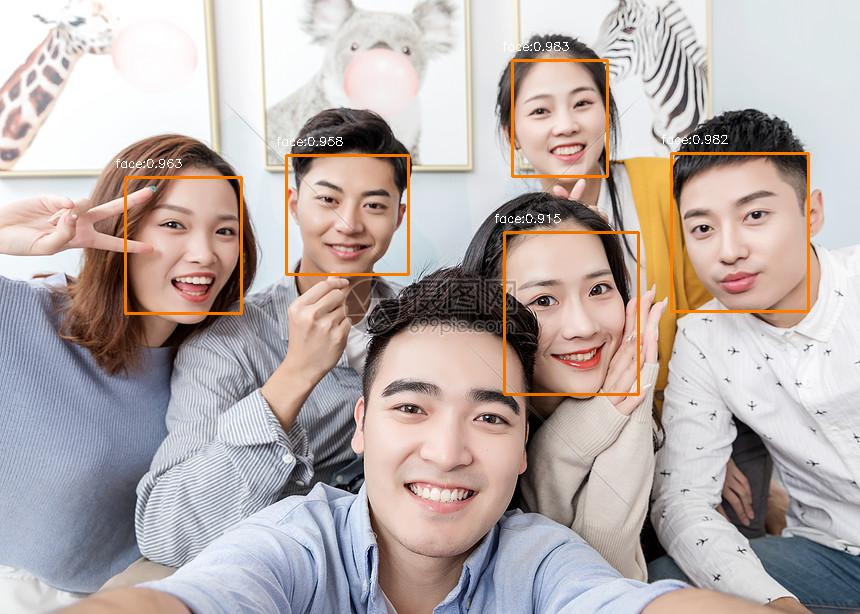
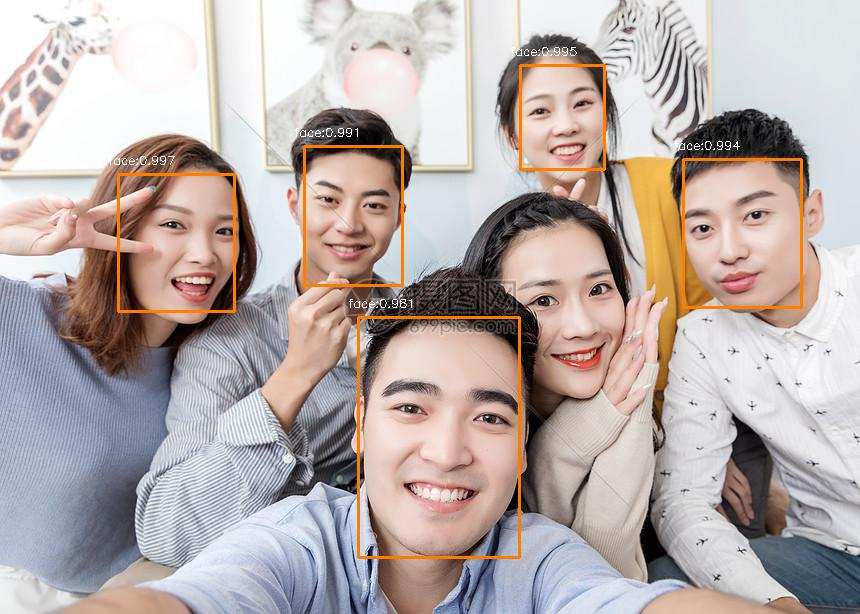
'改了一下文件结构，之前yolov3_tiny做了下调整权重却没有重新生成，重新生成了一下'

Changed region(s): [[0.3326, 0.2166, 0.9674, 0.9283], [0.5744, 0.0619, 0.7256, 0.3094], [0.1209, 0.2476, 0.3023, 0.5261]]

diff --git a/image.py b/image.py
@@ -75,6 +75,7 @@ def main(args=None):
 
     plt.imsave(args.output_img,img)
     plt.imshow(img)
+    plt.axis('off')
     plt.show()
 
 if __name__ == "__main__":
@@ -87,7 +88,7 @@ if __name__ == "__main__":
                                     --output_img path for output image
                                     --anchors path for your prior anchors.''')
     parser.add_argument('--tiny',default=False,help='tiny model mode.')
-    parser.add_argument('--classes',default='wider.names',help='Your model preict classes')
+    parser.add_argument('--classes',default='config/wider.names',help='Your model preict classes')
     parser.add_argument('--ckpt',default='',help='Turn on the ckpt save mode.')
     parser.add_argument('--pb'  ,default='',help='Turn on the pb save mode.')
     parser.add_argument('--input_img',default='a.jpg',help='inputimage_path')

diff --git a/convert.py b/convert.py
@@ -118,7 +118,6 @@ if __name__ == "__main__":
         inputs = tf.placeholder(tf.float32, [None, 416, 416, 3])
         with tf.variable_scope('detector'):
             detections = model(inputs, len(classes), anchors)
-            print(tf.global_variables(scope='detector'))
             load_ops = load_weights(tf.global_variables(
                 scope='detector'), args.input)
 

diff --git a/yolo/yolov3_wider_tiny.py b/yolo/yolov3_wider_tiny.py
@@ -40,7 +40,7 @@ def backbone(input):
     
     return route_1,route_2,input
 
-def yolov3_tiny(input, num_classes, anchors):
+def yolov3_wider_tiny(input, num_classes, anchors):
     """
     YOLO V3 tiny version trained on WIDER FACE dataset.
     """
